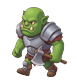
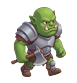
fix: 오크 걷기/공격2 좌우 반전 오류 수정 (공격1만 반전)

diff --git a/scripts/fit-sprites.py b/scripts/fit-sprites.py
@@ -24,7 +24,7 @@ FOOT = 0.90
 
 # 적: (원본 접두어, 결과 접두어, 걷기1 몸 높이(2배 해상도), 왼쪽을 보는지, 컷 이름들)
 ENEMIES = [
-    ('orc', 'e_orc', 70, True, ['walk1', 'walk2', 'atk1', 'atk2']),
+    ('orc', 'e_orc', 70, {'atk1'}, ['walk1', 'walk2', 'atk1', 'atk2']),
     ('shaman', 'e_shaman', 64, True, ['walk1', 'walk2', 'atk1', 'atk2']),
     ('wraith', 'e_wraith', 64, False, ['walk1', 'walk2', 'atk1', 'atk2']),
     ('golem', 'e_golem', 104, False, ['walk1', 'walk2', 'atk1', 'atk2']),
@@ -103,7 +103,7 @@ def pack(frames: dict, foot_frac: float | None = None, low_only: bool = False):
 
 def main():
     for src, dst, body_h, flip, cuts in ENEMIES:
-        ims = {c: load(f'{src}_{c}', flip) for c in cuts}
+        ims = {c: load(f'{src}_{c}', flip is True or (isinstance(flip, set) and c in flip)) for c in cuts}
         s = body_h / ims[cuts[0]].height
         pack({f'{dst}_{c}': resize(im, s) for c, im in ims.items()})
     for src, dst, target, side in TOWERS:
